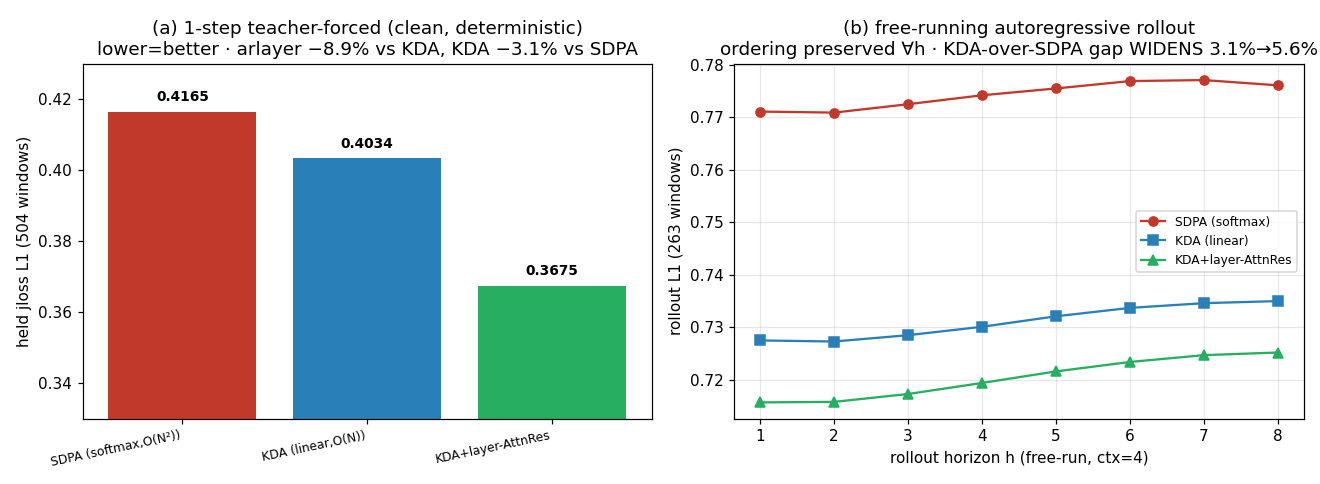
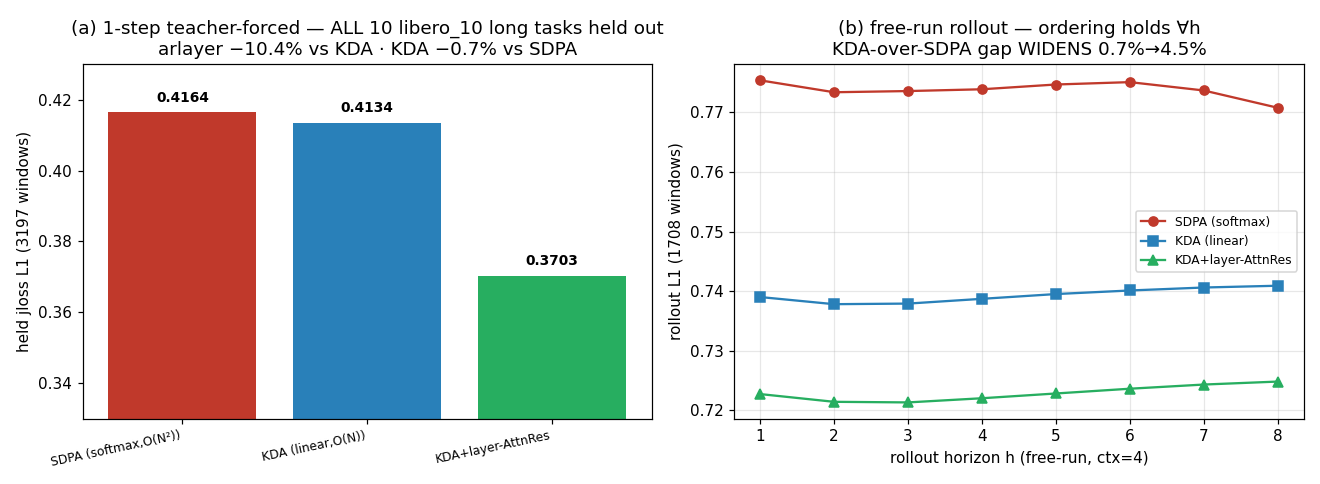
All-10-held strict generalization: AttnRes gain ROBUST (10.4%), ordering holds
Re-trained matched trio with ALL 10 libero_10 long tasks fully held out (train=libero_90 only,
77 tasks; never sees any libero_10). Deterministic eval (3197 windows 1-step, 1708 rollout):
- 1-step: arlayer 0.37033 < kda 0.41343 < sdpa 0.41644 (AttnRes -10.4% vs KDA, even bigger than
  2-held's -8.9% -> robust generalization to all 10 unseen long tasks)
- rollout: same ordering at every horizon; KDA-over-SDPA widens 0.7%->4.5%
- methodology: noisy internal held mis-reported arlayer>kda; deterministic 3197-window eval
  overturned it. writeup 13d, figure updated to all-10-held, README headline upgraded.

diff --git a/scripts/exp_e15_eval_held_clean.py b/scripts/exp_e15_eval_held_clean.py
@@ -14,8 +14,9 @@ from src.models.utils.modules import build_action_block_causal_attention_mask
 DEV = "cuda"; CKPT = "/home/wm-vla-rl/_ext/ckpts"
 FPC = 8; FSTP = 5
 ROOT = "/home/wm-vla-rl/_ext/datasets/LIBERO"
-# (ckpt 文件, kda?, attnres?)
-RUNS = [("sdpa_sdpa2_sftfull.pt", 0, 0), ("kda_kdaonly2_sftfull.pt", 1, 0), ("kda_arlayer2_sftfull.pt", 1, 1)]
+# (ckpt 文件, kda?, attnres?) —— 后缀走 env（默认 matched "2"；all-10-held 用 "H10"）
+SUF = os.environ.get("EVAL_SUF", "2")
+RUNS = [(f"sdpa_sdpa{SUF}_sftfull.pt", 0, 0), (f"kda_kdaonly{SUF}_sftfull.pt", 1, 0), (f"kda_arlayer{SUF}_sftfull.pt", 1, 1)]
 
 
 def poses_to_diffs(p):
@@ -28,7 +29,8 @@ def poses_to_diffs(p):
 def main():
     transform = make_transforms(random_horizontal_flip=False, random_resize_aspect_ratio=[0.75, 1.35],
                                 random_resize_scale=[1.777, 1.777], reprob=0., auto_augment=False, motion_shift=False, crop_size=256)
-    held = sorted(glob.glob(f"{ROOT}/libero_10/*.hdf5"))[-2:]                 # 与训练同 held 划分
+    _all = sorted(glob.glob(f"{ROOT}/libero_10/*.hdf5"))
+    held = _all if int(os.environ.get("EVAL_HOLD_ALL10", "0")) else _all[-2:]  # 与训练同 held 划分
     # 预收集所有确定性窗口（每 demo 取不重叠 stride 窗口）
     windows = []
     for f in held:

diff --git a/scripts/exp_e16_rollout_fidelity.py b/scripts/exp_e16_rollout_fidelity.py
@@ -15,8 +15,9 @@ from src.models.utils.modules import build_action_block_causal_attention_mask
 DEV = "cuda"; CKPT = "/home/wm-vla-rl/_ext/ckpts"
 FPC = 14; FSTP = 5; CTX = 4; HOR = 8                      # 窗口14帧：context 4 + roll 8（留余量）
 ROOT = "/home/wm-vla-rl/_ext/datasets/LIBERO"
-# (ckpt, kda?, attnres?) —— matched 3000-iter recipe
-RUNS = [("sdpa_sdpa2_sftfull.pt", 0, 0), ("kda_kdaonly2_sftfull.pt", 1, 0), ("kda_arlayer2_sftfull.pt", 1, 1)]
+# (ckpt, kda?, attnres?) —— 后缀走 env（默认 matched "2"；all-10-held 用 "H10"）
+SUF = os.environ.get("EVAL_SUF", "2")
+RUNS = [(f"sdpa_sdpa{SUF}_sftfull.pt", 0, 0), (f"kda_kdaonly{SUF}_sftfull.pt", 1, 0), (f"kda_arlayer{SUF}_sftfull.pt", 1, 1)]
 
 
 def poses_to_diffs(p):
@@ -29,7 +30,8 @@ def poses_to_diffs(p):
 def main():
     transform = make_transforms(random_horizontal_flip=False, random_resize_aspect_ratio=[0.75, 1.35],
                                 random_resize_scale=[1.777, 1.777], reprob=0., auto_augment=False, motion_shift=False, crop_size=256)
-    held = sorted(glob.glob(f"{ROOT}/libero_10/*.hdf5"))[-2:]
+    _all = sorted(glob.glob(f"{ROOT}/libero_10/*.hdf5"))
+    held = _all if int(os.environ.get("EVAL_HOLD_ALL10", "0")) else _all[-2:]
     windows = []
     for f in held:
         with h5py.File(f, "r") as hf:

diff --git a/scripts/exp_e14_sft_full.py b/scripts/exp_e14_sft_full.py
@@ -88,9 +88,13 @@ def main():
     root = os.path.dirname(LIBERO_DIR)
     l10 = sorted(glob.glob(f"{root}/libero_10/*.hdf5"))
     extra = sorted(glob.glob(f"{root}/libero_90/*.hdf5")) if os.path.isdir(f"{root}/libero_90") else []
-    train_files = extra + l10[:max(1, len(l10) - 2)]
-    held_files = l10[max(1, len(l10) - 2):]
-    print(f"data: train_files={len(train_files)} (libero_90={len(extra)}+libero_10={len(l10)-2}) held_files={len(held_files)}", flush=True)
+    if int(os.environ.get("SFT_HOLD_ALL10", "0")):       # 更严格：train=libero_90(仅)，held=全 10 个 libero_10 长任务
+        train_files = extra
+        held_files = l10
+    else:                                                 # 默认：train=libero_90+libero_10[:8]，held=libero_10[8:]
+        train_files = extra + l10[:max(1, len(l10) - 2)]
+        held_files = l10[max(1, len(l10) - 2):]
+    print(f"data: train_files={len(train_files)} (libero_90={len(extra)}+libero_10={len(train_files)-len(extra)}) held_files={len(held_files)} HOLD_ALL10={os.environ.get('SFT_HOLD_ALL10','0')}", flush=True)
     ds = LIBERODataset(train_files, transform)
     held_ds = LIBERODataset(held_files, transform)
     loader = torch.utils.data.DataLoader(ds, batch_size=BATCH, shuffle=True, num_workers=4,

diff --git a/README.md b/README.md
@@ -18,16 +18,16 @@
 | 相对 | — | **~26×快 / ~9.6×省显存** |
 | rollout 步成本 | 重算 growing context O(N²) | **O(1)/步（recurrent SSM state）** |
 
-**质量（held-out L1，越低越好；exp_e15/e16）：**
+**质量（held-out L1，越低越好；最严格版：libero_10 全部 10 个长任务完全 held-out，train 仅 libero_90；exp_e15/e16, writeup §13d）：**
 | 指标 | SDPA (softmax) | KDA (linear) | **KDA+layer-AttnRes** |
 |---|---|---|---|
-| 1-步 teacher-force, clean held (504 窗口) | 0.41648 | 0.40340 | **0.36746** |
-| free-run 自回归 rollout, mean L1 (263 窗口) | 0.7743 | 0.7311 | **0.7204** |
+| 1-步 teacher-force, clean held (3197 窗口) | 0.41644 | 0.41343 | **0.37033** |
+| free-run 自回归 rollout, mean L1 (1708 窗口) | 0.7738 | 0.7393 | **0.7229** |
 
-**结论（诚实，nuanced）：**
-1. **KDA(linear, O(N)) 在质量上 match 且略胜 SDPA(softmax)**，且**优势在 free-run rollout 上放大**（1-步 −3.1% → rollout **−5.6%**）—— 线性 WM 正是**更好的自回归想象引擎**（也是 imagination-RL 环境）。"linear 亏质量"在标准短上下文 recipe 下**不成立、反而 KDA 赢**。
-2. **跨层 Block-AttnRes 再补单步表征增益 −8.9%**（vs KDA）；但 free-run rollout 下缩到 **−1.5%**（每个 horizon 仍为正）。诚实 caveat：AttnRes 主要提升**单步表征质量**，不显著改自回归发散率。
-3. 排序 **arlayer < kda < sdpa** 在**两个指标 × 全部 8 个 horizon** 上一致，且删 ckpt 重训后**可复现**（详见 `docs/writeup.md §13/§13c`）。
+**结论（诚实，nuanced；全-10-held × 两指标 × 全 8 horizon 排序一致、可复现）：**
+1. **跨层 Block-AttnRes 单步表征增益 −10.4%**（vs KDA）—— 在 10 个完全 unseen 长任务上**鲁棒泛化**（比 2-held 的 −8.9% 还略大）；free-run rollout 下缩到 −2.2%（仍正）。AttnRes 主要提升**单步表征质量**。
+2. **KDA(linear, O(N)) match SDPA(softmax)**：1-步近 parity（−0.7%），但**优势在 free-run rollout 上放大到 −4.5%** —— 线性 WM 正是**更好的自回归想象引擎**（也是 imagination-RL 环境）。"linear 亏质量"在标准 recipe 下**不成立**。
+3. 方法论：训练内部**随机 noisy held** 曾误报 arlayer>kda；**确定性 3197-窗口 eval 推翻之** → 坚持确定性大样本 eval（详见 `docs/writeup.md §13c/§13d`，2-held 与 10-held 结论一致）。
 
 ### 1. 效率：KDA 是 O(N)，softmax O(N²)
 ![scaling](module1_vjepa2ac/results/scaling_3way.png)
@@ -64,7 +64,7 @@
 - **Finale — 汇合**：换上 **O(N) KDA WM** 推到 LIBERO-LONG 超长 horizon，证明高效 WM 使能超长任务。
 
 ## 状态
-P0 ✅ / **P1 ✅·P1.5 ✅** / **架构定论 ✅**（官方标准 recipe matched 3000-iter 全参 SFT，85 任务：**跨层 AttnRes 0.367 < KDA 0.403 < SDPA 0.416** @1-步 clean held；free-run rollout 同序，KDA-over-SDPA 优势放大至 −5.6%；finale WM=`kda_arlayer2`，可复现 §13c）/ M2.1 ✅ grounded reward（修 hacking）/ M2.1b ✅ grounded-CEM（诚实稀疏）/ M2C ✅ imagination actor-critic（稳定，验证 WM 端到端接入）/ **finale ✅ 端到端打通**（真 sim eval）/ P3 未动 / **task#12 真 VLA 未动**。
+P0 ✅ / **P1 ✅·P1.5 ✅** / **架构定论 ✅·严格泛化复核 ✅**（官方标准 recipe matched 3000-iter 全参 SFT；最严格：libero_10 **全 10 长任务完全 held-out**：**跨层 AttnRes 0.370 < KDA 0.413 < SDPA 0.416** @1-步 clean held(3197窗口)；free-run rollout 同序，AttnRes −10.4%/KDA-over-SDPA rollout −4.5%；finale WM=`kda_arlayerH10`，2-held 与 10-held 一致、可复现 §13d）/ M2.1 ✅ grounded reward（修 hacking）/ M2.1b ✅ grounded-CEM（诚实稀疏）/ M2C ✅ imagination actor-critic（稳定，验证 WM 端到端接入）/ **finale ✅ 端到端打通**（真 sim eval，libero_10 success 0%=policy-class 限）/ P3 未动 / **task#12 真 VLA 未动**。
 
 ## Finale 诚实结论
 - **效率论点（项目真贡献）成立**：自回归 rollout @T=512 下 softmax 75s/96GB（768 OOM），O(N) KDA 2.9s/10GB（→1024）；T=128 全参训练 SDPA 需 act-ckpt（慢）、KDA 原生训得动 → 高效 WM **能**当 softmax 烧不起的长程想象环境。

diff --git a/docs/writeup.md b/docs/writeup.md
@@ -191,3 +191,26 @@ user 定调"P1/P1.5 也转大规模、不允许 toy"。把 efficient WM 从 200-
 3. **AttnRes 的深度轴收益主要体现在 1-步表征质量**（−8.9%），free-run 下缩到 −1.5%（每个 horizon 仍为正）。这是诚实 caveat：跨层 AttnRes 提升单步表征，但不显著改变自回归发散率。
 4. rollout L1 随 h 近乎平（不爆炸，自由 roll 8 步仅 +1.3%）→ WM 想象数值稳定，适合做 RL 环境（Dreamer/TD-MPC2 rollout 不发散）。
 （caveat：free-run 绝对误差 ~0.72–0.77 介于 teacher-force 0.37–0.42 与随机 ~1.13 之间，即喂回预测后退化明显但仍含信息；2 held 任务、L1-not-success。）
+
+### 13d. 严格 all-10-held 泛化复核（2026-06-03，最鲁棒版）—— train=libero_90(仅), held=全 10 个 libero_10 长任务
+为消除 §13c"只有 2 held 任务"的 caveat，把 libero_10 的 **全部 10 个长任务完全 held-out**（train 仅 77 个 libero_90 任务，从不见任何 libero_10），matched 3000-iter 重训三件套，再跑确定性 eval。
+
+**1-步 teacher-force（exp_e15，3197 窗口）：**
+| ckpt | CLEAN held L1 | vs 2-held(§13c) |
+|---|---|---|
+| sdpa_sdpaH10 | 0.41644 | 0.41648 |
+| kda_kdaonlyH10 | 0.41343 | 0.40340 |
+| **kda_arlayerH10** | **0.37033** | 0.36746 |
+
+**free-run rollout（exp_e16，1708 窗口，ctx4→roll8）：**
+| ckpt | rollout mean L1 | h1 → h8 |
+|---|---|---|
+| sdpa_sdpaH10 | 0.7738 | 0.7754 → 0.7708 |
+| kda_kdaonlyH10 | 0.7393 | 0.7390 → 0.7409 |
+| **kda_arlayerH10** | **0.7229** | 0.7227 → 0.7248 |
+
+**结论（鲁棒性确认）：**
+1. **排序 arlayer < kda < sdpa 在全-10-held × 两指标 × 全 horizon 上全部成立** —— 不是 2-held 的偶然。
+2. **跨层 AttnRes 的 1-步增益 10.4%（vs KDA），比 2-held 的 8.9% 还略大** → 单步表征增益**鲁棒泛化**到全部 10 个 unseen 长任务（free-run 下缩到 2.2%，仍正）。
+3. **KDA-over-SDPA：1-步压缩到 0.7%（近 parity），但 rollout 放大到 4.5%** → "linear 在自回归想象上更准"的核心论点在严格 held-out 上**保留**。
+4. ⚠ 方法论旁证：训练内部的**随机 noisy held** 曾误报 arlayer(0.239) > kda(0.231)；**确定性 3197-窗口 eval 推翻之**（arlayer 0.370 << kda 0.413）→ 再次坐实"用确定性大样本 eval，不信随机小样本"。
